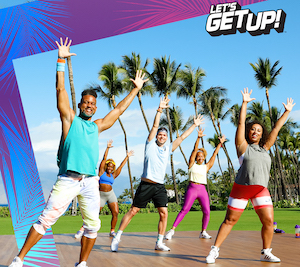
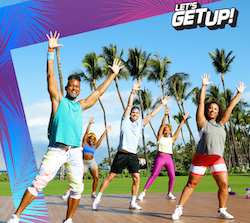
Sorting image resizing again

diff --git a/instagram/index.md b/instagram/index.md
@@ -7,7 +7,7 @@ layout: landing_page_image
 <a href="https://www.instagram.com/inspiringlifedesign/" target="_blank" rel="noopener"><span style="color:white">@inspiringlifedesign</span></a>
 </h6>
 
-<iframe width="200" height="176" src="/i/beachbody/letsgetuppromo.jpg" alt="Lets Get Up workout image" frameborder="0"></iframe>
+<iframe width="250" height="223" src="/i/beachbody/letsgetuppromo.jpg" alt="Lets Get Up workout image" frameborder="0"></iframe>
 
 <h6 class="title"><span style="color:white">Try For Free - Summer Dance Workout!</span></h6>
 <a href="https://www.facebook.com/groups/tryletsgetup"><img src='/i/Buttons/instagram/current/danceworkout.png' alt='link to Lets Get Up Facebook Group' /></a>
